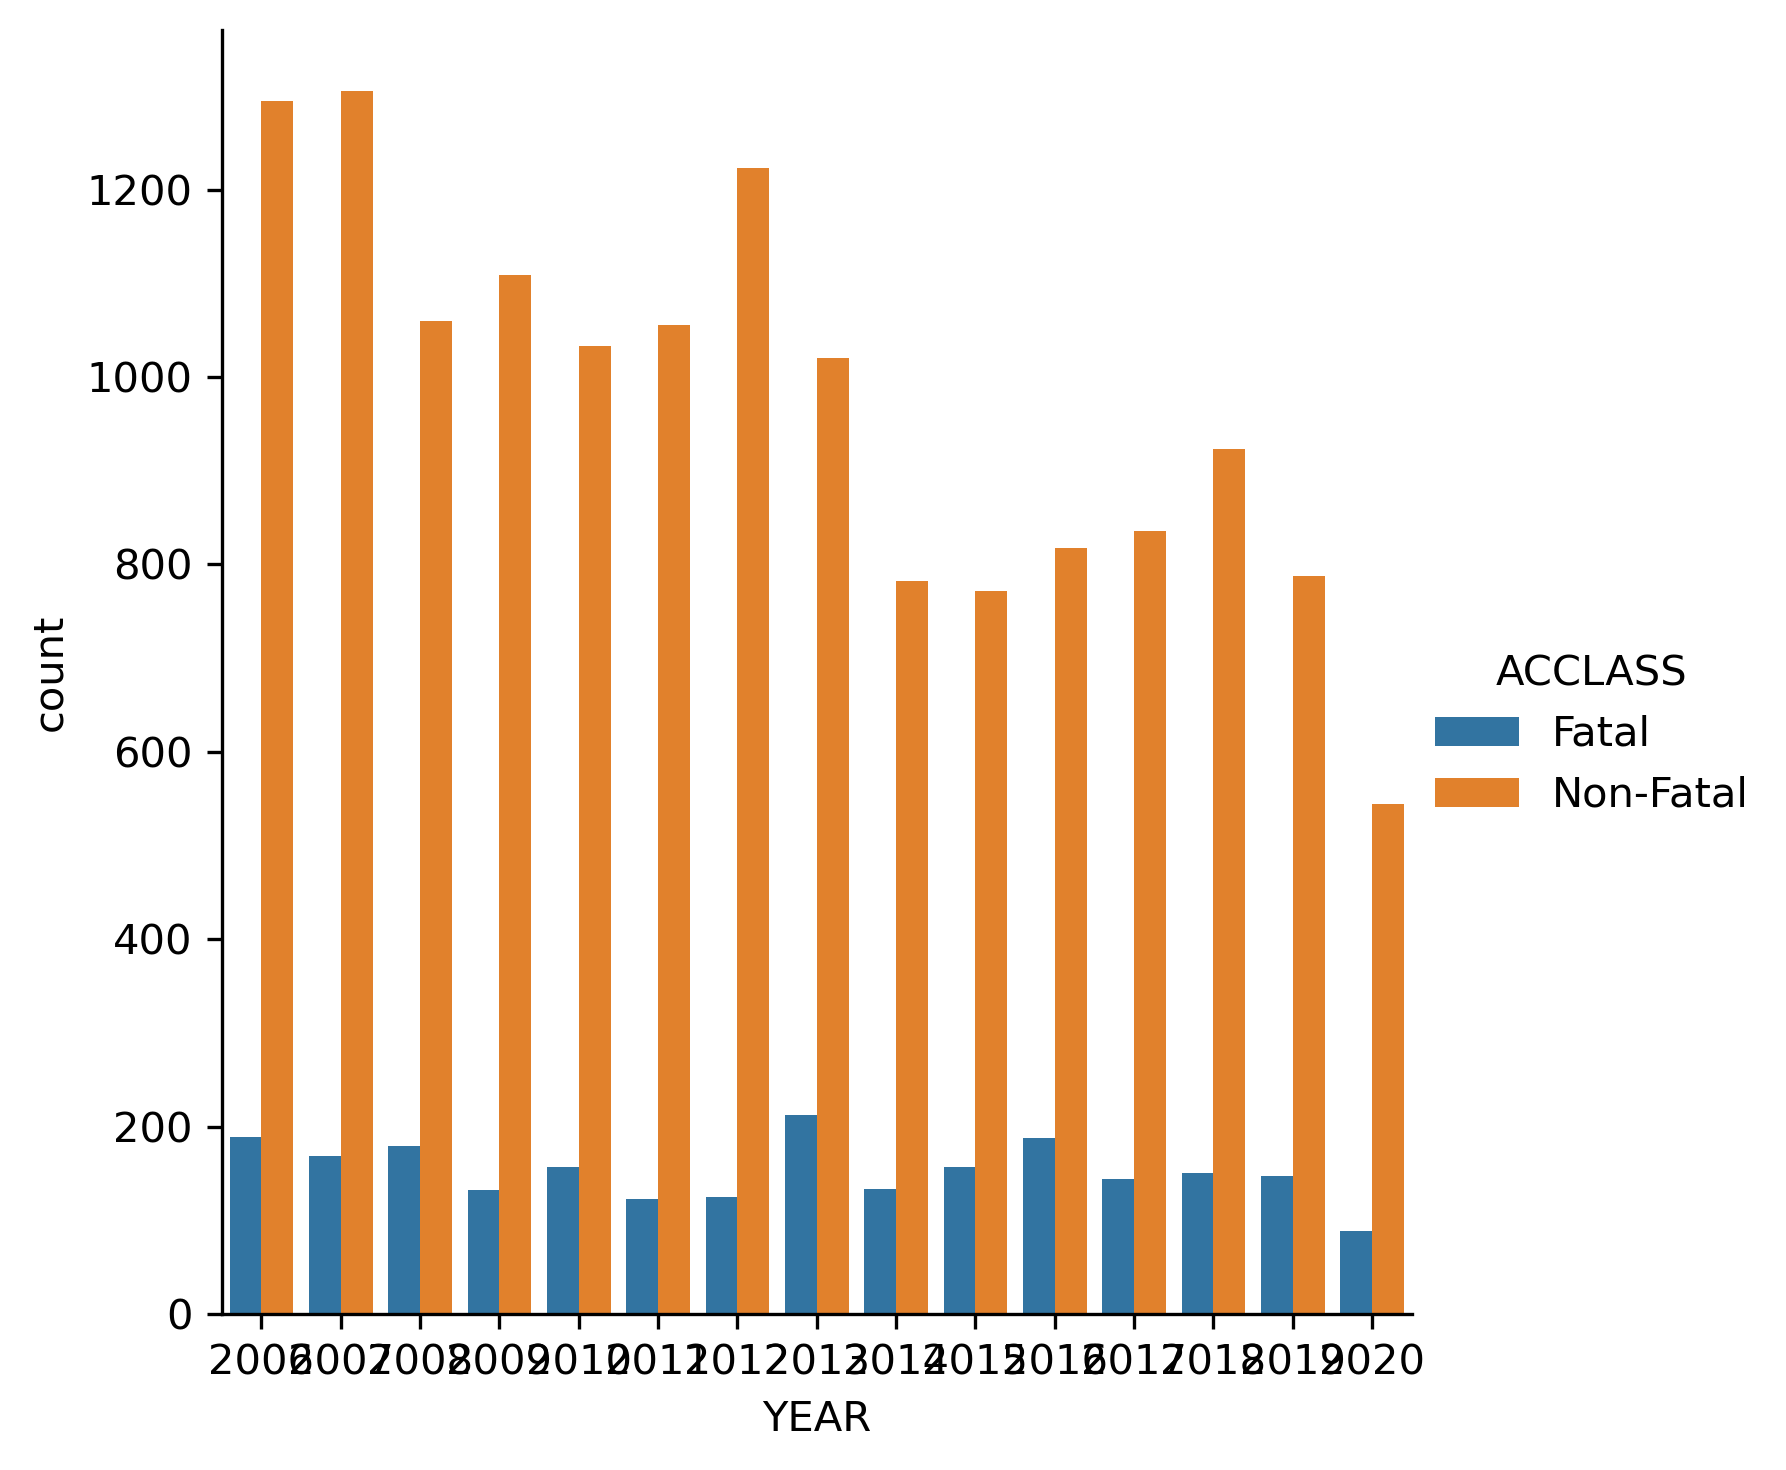
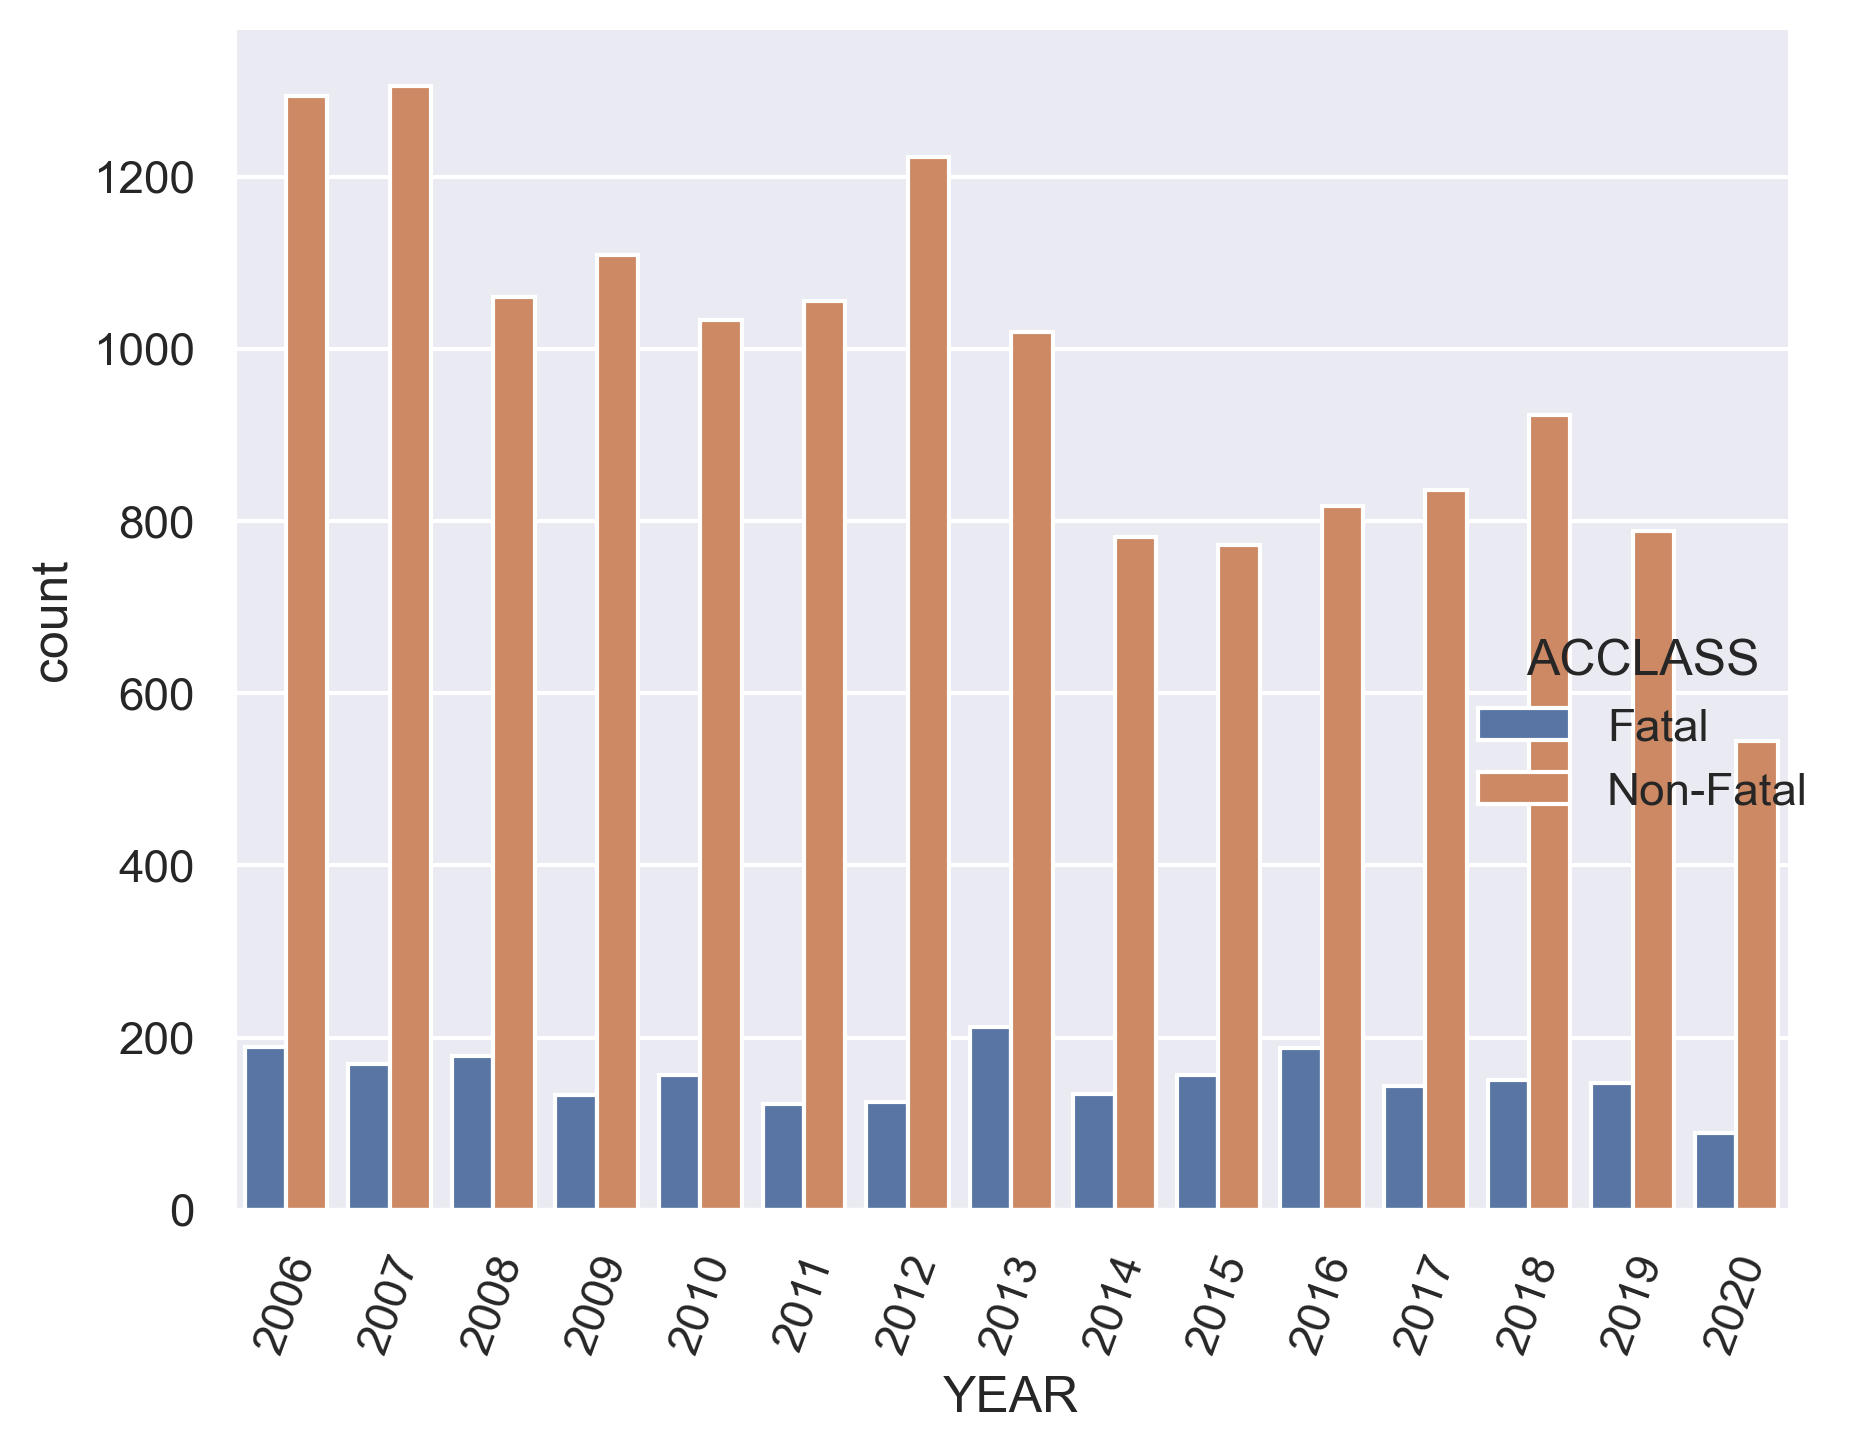
data cleaning

diff --git a/model.py b/model.py
@@ -11,6 +11,7 @@ from sklearn.metrics import classification_report
 import seaborn as sns
 import matplotlib.pyplot as plt
 
+
 data = pd.read_csv('KSI.csv')
 
 #printing percentage of missing values for each feature
@@ -24,7 +25,7 @@ sns.heatmap(data.isnull(), yticklabels=False,cmap='Greens')
 #shape
 print(data.shape)
 # Dropping columns where missing values were greater than 80%
-drop_column = ['OFFSET','FATAL_NO','PEDTYPE','PEDACT','PEDCOND','CYCLISTYPE','CYCACT','CYCCOND','CYCLIST','MOTORCYCLE','TRUCK','TRSN_CITY_VEH','EMERG_VEH','SPEEDING','REDLIGHT','ALCOHOL','DISABILITY','ObjectId','X','Y','INDEX_']
+drop_column = ['OFFSET','FATAL_NO','PEDTYPE','PEDACT','PEDCOND','CYCLISTYPE','CYCACT','CYCCOND','ObjectId','X','Y','INDEX_']
 data.drop(drop_column, axis=1, inplace=True)
 print(data.shape)
 print(data.isna().sum()/len(data)*100)
@@ -35,8 +36,8 @@ print(data.describe())
 #Changing the property damage and non-fatal columns to Non-Fatal¶
 data['ACCLASS'] = np.where(data['ACCLASS'] == 'Property Damage Only', 'Non-Fatal', data['ACCLASS'])
 data['ACCLASS'] = np.where(data['ACCLASS'] == 'Non-Fatal Injury', 'Non-Fatal', data['ACCLASS'])
-
 data['ACCLASS'].unique()
+
 
 ## Verifying columns with object data type
 print(data.select_dtypes(["object"]).columns)
@@ -94,3 +95,45 @@ Num_accident.plot(
 plt.show()
 
 #From the data above, accidents happened more from June to October
+
+#Categorizing Fatal vs. non-Fatal Incident (non-unique i.e: one accident is counted depending upon involved parties)
+plt.xticks(rotation=70)
+plt.tight_layout()
+sns.catplot(x='YEAR', kind='count', data=data,  hue='ACCLASS')
+plt.xticks(rotation=0)
+plt.tight_layout()
+
+
+#Looking at area where accident happens
+Region_data = data['DISTRICT'].value_counts()
+plt.figure(figsize=(12,6))
+plt.ylabel('Number of Accidents')
+Region_data.plot(kind='bar',color=list('rgbkmc'))
+plt.show()
+
+#data cleaning
+data.shape
+data.columns
+
+#Driving condition for accidents
+#AG_DRIV
+#REDLIGHT
+#ALCOHOL
+#DISABILITY
+#SPEEDING
+
+#Type of vehicles involved
+#AUTOMOBILE
+#MOTORCYCLE
+#TRUCK
+#CYCLIST
+#EMERG_VEH
+#TRNS_CITY_VEH
+
+#We noted that if the value of these columns are nan which means no
+#Therefore we need to transform yes to 1, nan to 0
+
+#Changing the nan to 0 and Yes to 1 for alcohol
+data['ALCOHOL'] = np.where(data['ALCOHOL'] == 'Yes',1,0)
+
+#Changing the nan to 0 and Yes to 1 for DISABILITY
